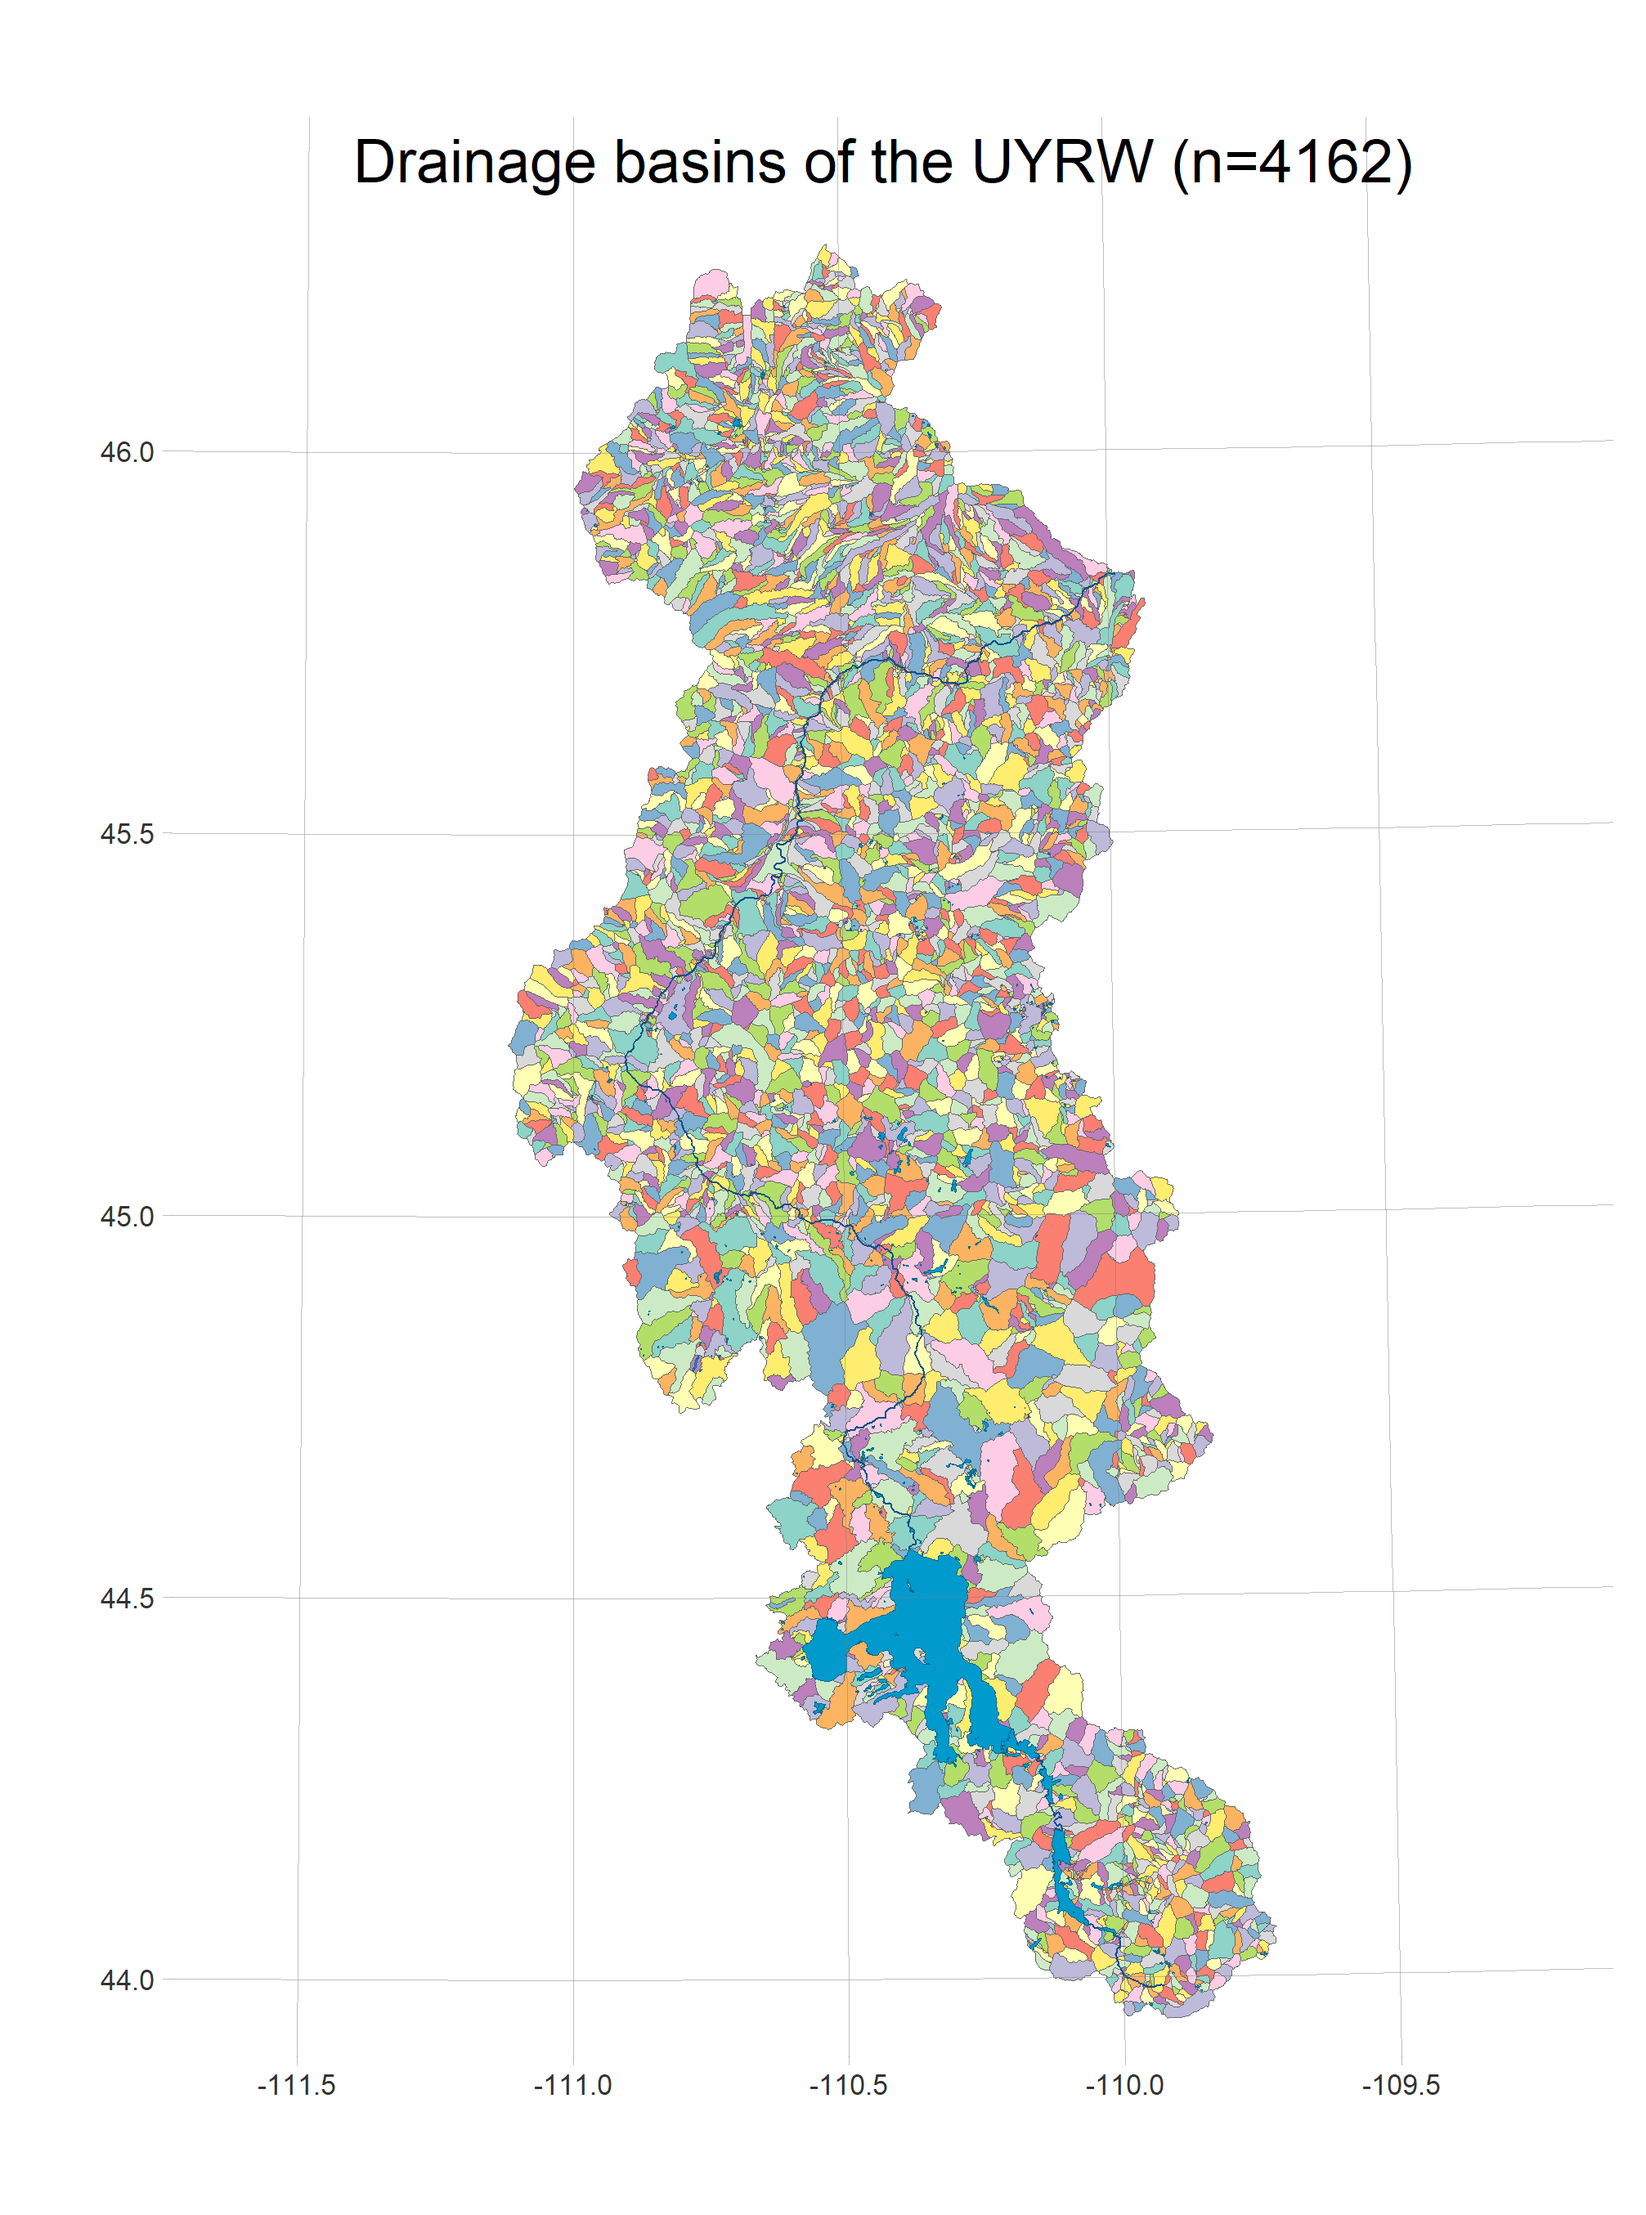
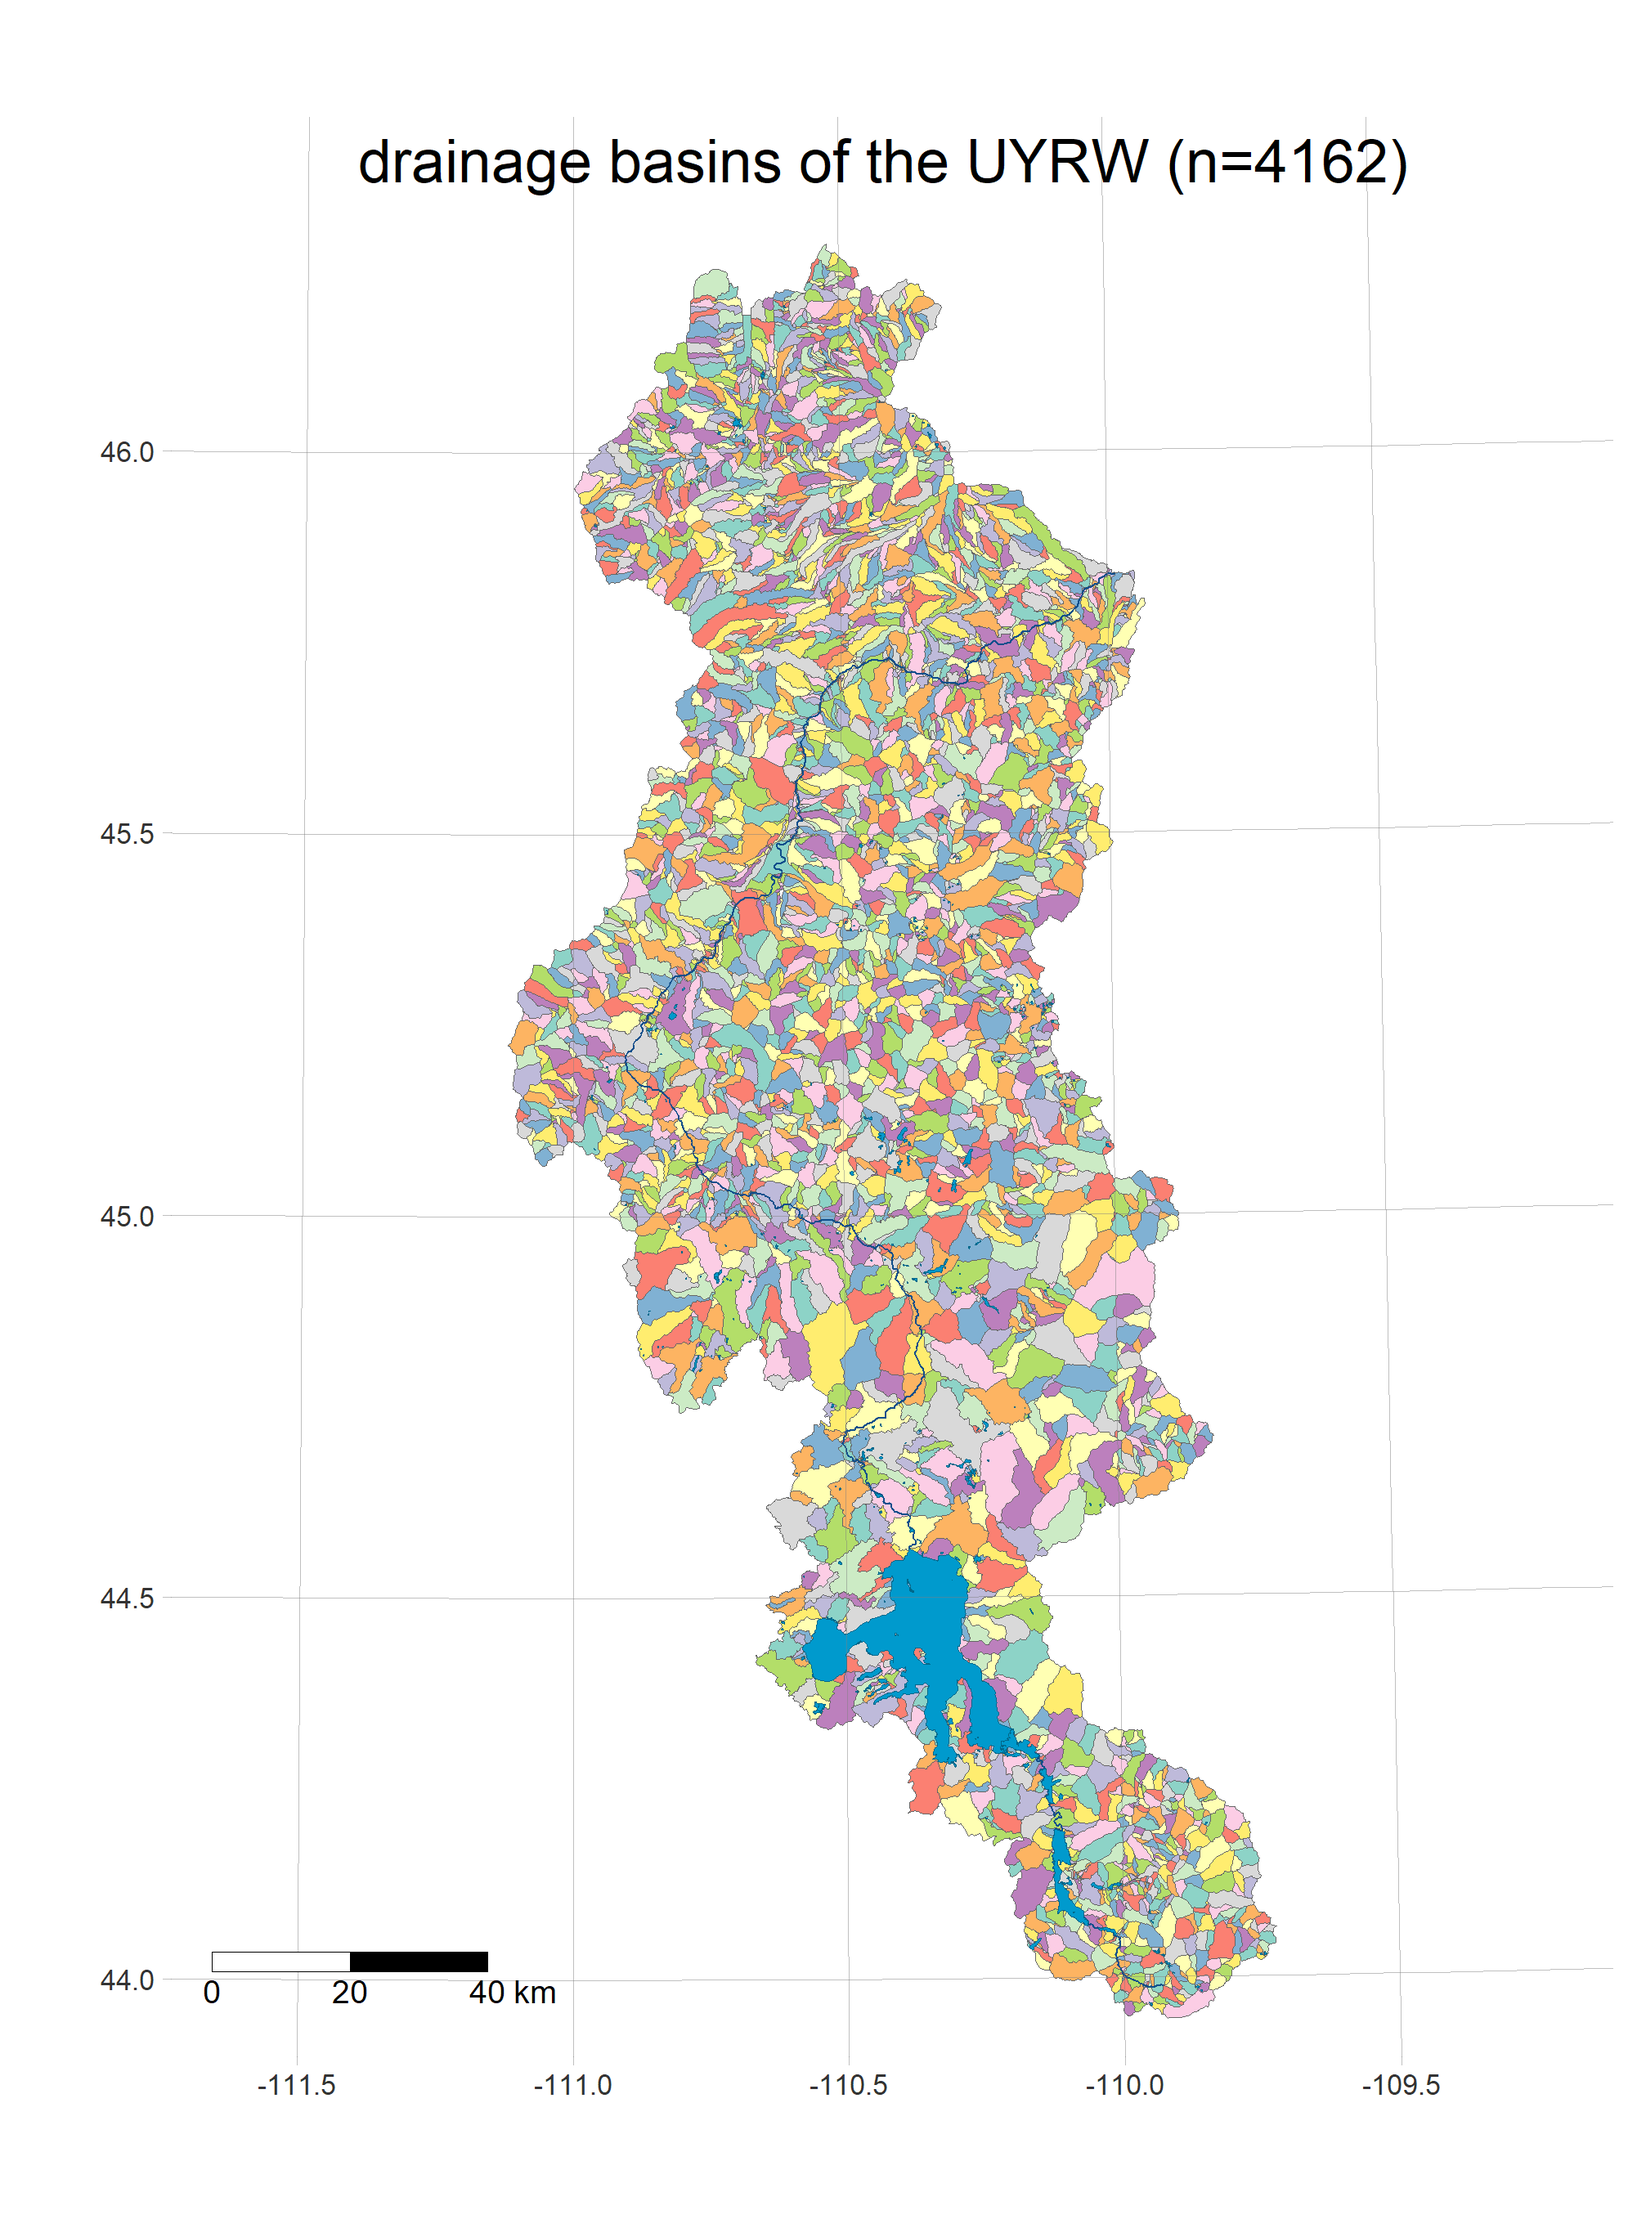
added scale bars to graphics, fixed url for metadata table, now sharing .gitignore

Changed region(s): [[0.2156, 0.062, 0.8624, 0.9302], [0.2156, 0.8682, 0.308, 0.8992]]

diff --git a/NHDPlus.knit.md b/NHDPlus.knit.md
@@ -172,7 +172,12 @@ if(!file.exists(here(uyrw.metadata.file)))
 }
 ```
 
-This list of files and descriptions is stored as a [.csv file in the /data directory](https://raw.githubusercontent.com/deankoch/URYW_data/master/data/uyrw_metadata.csv)
+This list of files and descriptions is now stored as a
+[.csv file](https://github.com/deankoch/URYW_data/blob/master/data/uyrw_metadata.csv)
+in the `/data` directory. Since github is not meant for hosting large binaries, some of these files are not
+shared in this repository (see my 
+[.gitignore](https://raw.githubusercontent.com/deankoch/URYW_data/master/.gitignore) file). 
+However you can reproduce all of them by running this script.
 
 ## starting location
 Now we define a source outlet from which to explore upstream. Later on we can load this information from disk instead of
@@ -353,8 +358,8 @@ if(!file.exists(here(uyrw.metadata.df['img_flowline', 'file'])))
 
     print(tm_shape(uyrw.poly, xlim=uyrw.xlim.larger, ylim=uyrw.ylim.larger) + 
             tm_polygons(col='greenyellow', border.col='yellowgreen') +
-          tm_shape(uyrw.flowline) +
-            tm_lines(col='dodgerblue3') +
+          #tm_shape(uyrw.flowline) +
+          #  tm_lines(col='dodgerblue3') +
           tm_shape(uyrw.mainstem) +
             tm_lines(col='dodgerblue4', lwd=2) +
           tm_shape(uyrw.waterbody) + 
@@ -371,7 +376,8 @@ if(!file.exists(here(uyrw.metadata.df['img_flowline', 'file'])))
           tm_shape(poi.list$pt[['yellowstonelake']]) +   
             tm_text('request', just='top', xmod=-4, size=0.8) +
           tm_grid(n.x=4, n.y=5, projection=crs.list$epsg.geo, alpha=0.5) +
-          tm_layout(title='Watercourses in the UYRW', title.position=c('center', 'TOP'), frame=FALSE))
+          tm_scale_bar(breaks=c(0, 20, 40), position=c('center', 'bottom'), text.size=0.7) +
+          tm_layout(title='major watercourses in the UYRW', title.position=c('center', 'TOP'), frame=FALSE))
     
   dev.off()
 }
@@ -394,7 +400,8 @@ if(!file.exists(here(uyrw.metadata.df['img_basins', 'file'])))
           tm_shape(uyrw.waterbody) + 
             tm_polygons(col=adjustcolor('deepskyblue3', alpha=0.8), border.col='deepskyblue4') +
           tm_grid(n.x=4, n.y=5, projection=crs.list$epsg.geo, alpha=0.5) +
-          tm_layout(title=paste0('Drainage basins of the UYRW (n=', nrow(uyrw.catchment), ')'),
+            tm_scale_bar(breaks=c(0, 20, 40), position=c('center', 'bottom'), text.size=0.7) +
+          tm_layout(title=paste0('drainage basins of the UYRW (n=', nrow(uyrw.catchment), ')'),
                     title.position=c('center', 'TOP'),
                     frame=FALSE))
     
@@ -403,6 +410,7 @@ if(!file.exists(here(uyrw.metadata.df['img_basins', 'file'])))
 ```
 
 ![Drainage basins of the Upper Yellowstone and tributaries](https://raw.githubusercontent.com/deankoch/URYW_data/master/graphics/uyrw_basins.png)
+
 
 
 
